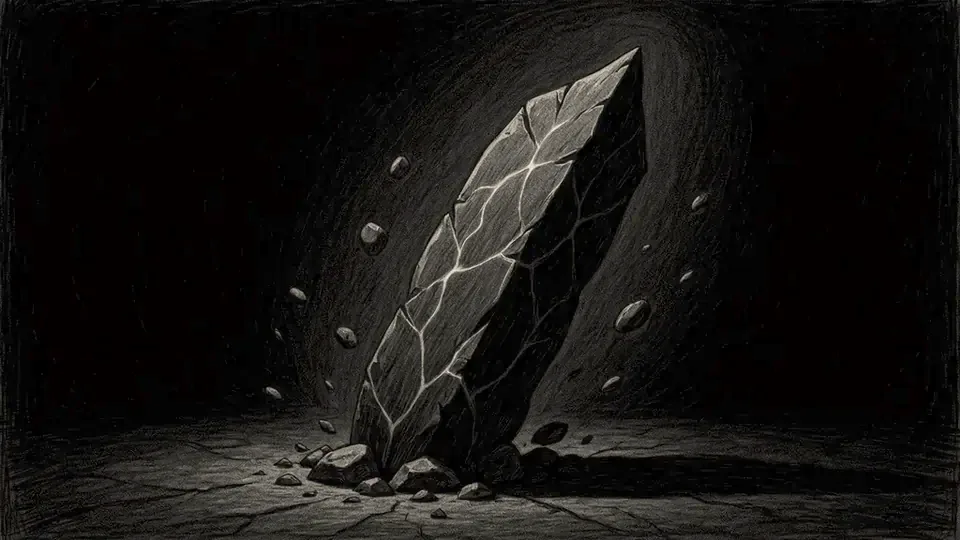
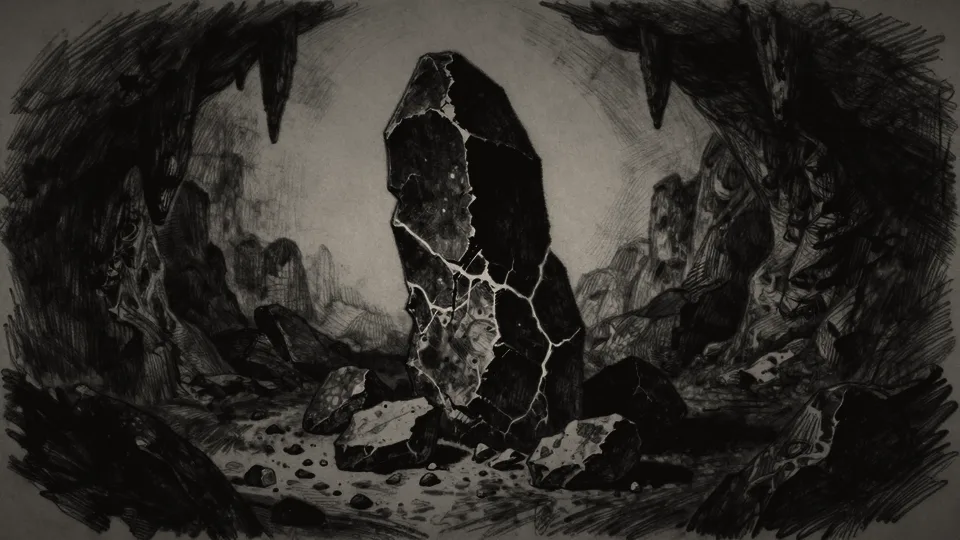
Splitter-Ereignis: neues Kohlebild mit leuchtenden Adern
Claude-Session: https://claude.ai/code/session_011EEWvRSeQeUrKHaWh94RcN

Claude-Session: https://claude.ai/code/session_011EEWvRSeQeUrKHaWh94RcN

diff --git a/index.html b/index.html
@@ -1163,7 +1163,7 @@ ${glow(180,K.y+6,boss?80:big?60:44,boss?46:big?34:26,big?"#c0352a":c,big?.3:.12)
 ${boss?`<g class="spin" style="transform-origin:180px ${K.y}px"><circle cx="180" cy="${K.y}" r="34" fill="none" stroke="#c0352a" stroke-width=".7" stroke-dasharray="2 6" opacity=".7"/><circle cx="180" cy="${K.y}" r="44" fill="none" stroke="#c0352a" stroke-width=".4" opacity=".35"/></g>`:''}
 <g class="foe-eyes blink ${k==='wing'?'hover':'breathe-e'}">${eye(180-K.gap)}${eye(180+K.gap)}${extra.map(eye).join('')}</g>
 ${particles(PART[ai],10,c,31+ai)}`)}
-const IMG={"e14":{"g":[[50,72,3,"y","fl"]],"p":"dust"},"e15":{"g":[[49,45,14,"v","pulse"],[49,45,7,"v","fl2"]],"p":"dust"},"e16":{"g":[[23,53,6,"o","fl"],[47,60,4,"o","fl2"]],"p":"embers"},"e17":{"p":"dust"},"e18":{"g":[[40.6,80,3,"y","fl"]],"p":"dust"},"l1":{"g":[[41.7,51,5,"o","fl"]],"m":[85.3,5.2,3],"st":[49.5,25],"fog":1},"l2":{"g":[[56,58,5,"o","fl"],[28,53,3,"o","fl"]],"m":[96.4,1.8,3],"st":[50,24.5],"fog":1},"l3":{"g":[[36.5,54,4.5,"o","fl"],[11.4,53,3,"o","fl"],[66.3,16,1.6,"y","fl"]],"m":[88.2,7,3],"st":[45,23],"fog":1},"l4":{"g":[[34.5,75,4.5,"o","fl"],[39.6,47,1.6,"y","fl"],[54.7,47,1.6,"y","fl"],[77.8,30,1.6,"y","fl"]],"m":[93,4.6,3],"st":[50.3,15],"fog":1},"h2":{"g":[[27.5,16,3.2,"y","fl"]],"p":"dust"},"h3":{"g":[[20,88,10,"o","fl2"],[8,45,8,"o","slow"]],"p":"embers"},"h4":{"g":[[88.9,64.5,3,"y","fl"]],"p":"snow"},"h5":{"g":[[56.5,8,4,"y","fl"]]},"r2":{"g":[[56.6,64,5,"o","fl"]],"p":"dust"},"r3":{"g":[[58.6,74,7,"o","fl2"]],"p":"embers"},"r4":{"g":[[58.6,66,5,"o","fl"]],"p":"snow"},"r5":{"g":[[50.8,51,3.5,"o","fl"]]},"x11":{"p":"dust"},"v6":{"e":[],"c":"o","g":[[11,26,4,"o","fl2"],[28,42,4,"o","fl2"],[90,30,4,"o","fl2"]]},"v1":{"e":[],"c":"y"},"v2":{"e":[],"c":"o","g":[[18,58,6,"o","fl2"],[82,58,6,"o","fl2"]]},"v3":{"e":[],"c":"o","p":"embers"},"v4":{"e":[],"c":"b","p":"snow"},"v5":{"e":[],"c":"v"},"v7":{"e":[],"c":"b"},"v8":{"e":[],"c":"o","p":"embers"},"v9":{"e":[],"c":"b","p":"snow"},"v10":{"e":[],"c":"y","g":[[51,79,3,"y","fl2"]]},"q1":{"e":[],"c":"y","g":[[46,80,6,"y","slow"]],"p":"dust"},"q2":{"e":[],"c":"o","p":"embers"},"q3":{"e":[],"c":"y","g":[[31,93,5,"o","fl2"]]},"x6":{"e":[],"c":"y","g":[[42,73,10,"o","fl2"]]},"x7":{"e":[],"c":"y","p":"dust"},"x8":{"e":[],"c":"v","g":[[58,15,4,"v","pulse"]]},"x9":{"e":[],"c":"y","p":"dust"},"x10":{"e":[],"c":"y"},"x5":{"e":[],"c":"y","g":[[58,12,10,"y","slow"]],"p":"dust"},"e10":{"e":[],"c":"y","g":[[73,50,6,"o","fl2"]]},"e12":{"e":[],"c":"y"},"e9":{"e":[],"c":"y"},"e11":{"e":[],"c":"o","g":[[70,80,9,"o","fl2"]]},"e13":{"e":[],"c":"y"},"g15":{"e":[[49.7,20.1,1.3],[58.0,22.5,1.3]],"c":"y"},"g16":{"e":[[50.0,24.2,1.0],[56.7,24.2,1.0]],"c":"y","g":[[50,4,6,"o","fl2"]]},"g17":{"e":[[45.7,25.4,1.3],[51.9,28.1,1.3]],"c":"o","p":"embers"},"g18":{"e":[],"c":"b","p":"snow"},"g19":{"e":[[38.9,31.8,1.0],[46.3,31.5,1.0]],"c":"b"},"g20":{"e":[[50.4,6.1,0.9],[56.8,6.1,0.9]],"c":"o","p":"embers"},"g21":{"e":[[55.1,25.5,1.0],[60.5,25.3,1.0]],"c":"b","p":"snow"},"g22":{"e":[],"c":"b","p":"snow"},"g23":{"e":[[47.7,2.4,0.6],[49.0,2.4,0.6]],"c":"b"},"g24":{"e":[],"c":"b"},"g25":{"e":[[53.6,13.3,1.1],[58.6,13.1,1.1]],"c":"b"},"e1":{"e":[],"c":"r"},"e2":{"e":[],"c":"b","g":[[50,68,18,"b","slow"]]},"e3":{"e":[],"c":"y"},"e4":{"e":[],"c":"y"},"e5":{"e":[],"c":"o","g":[[22,77,5,"o","fl2"]]},"e6":{"e":[],"c":"b","g":[[44,45,14,"b","slow"]]},"e7":{"e":[],"c":"y"},"e8":{"e":[],"c":"y"},"g1":{"e":[[49.8,12.5,1.4],[43.7,15.3,1.4]],"c":"y"},"g2":{"e":[[47.3,0.5,0.8],[49.3,0.8,0.8]],"c":"b"},"g3":{"e":[[51.3,18.8,0.9],[45.5,20.4,1.1]],"c":"y"},"g4":{"e":[[47.6,1.9,0.8],[49.5,1.8,0.8]],"c":"p"},"g5":{"e":[[58.4,40.5,0.8],[67.7,40.8,0.8]],"c":"y"},"g6":{"e":[[51.0,6.9,1.1],[49.2,7.1,1.1]],"c":"o","g":[[50,45,25,"o","slow"]]},"g7":{"e":[[47.8,4.9,0.6],[49.9,4.9,0.6]],"c":"b"},"g8":{"e":[[45.5,29.7,0.8],[53.9,30.0,0.8]],"c":"r"},"g9":{"e":[[44.1,9.8,1.9],[60.5,9.9,1.9],[50.5,21.4,4.8],[35.9,23.1,1.9],[65.0,30.1,4.8],[39.2,33.0,1.1],[53.0,36.4,1.9],[67.0,40.4,1.4],[60.3,46.1,2.0],[77.7,59.1,4.8],[55.7,72.8,1.4]],"c":"g"},"g10":{"e":[[45.3,47.2,1.4],[52.7,48.1,1.4]],"c":"y"},"g11":{"e":[[46.3,31.6,1.6],[56.4,33.8,1.6]],"c":"y"},"g12":{"e":[[50.0,0.1,1.2],[52.6,1.0,1.2]],"c":"o"},"b1":{"e":[[50.5,10.4,1.2],[46.7,12.2,1.4]],"c":"y"},"b2":{"e":[[52.2,7.0,1.2],[49.4,7.4,1.2]],"c":"b"},"b3":{"e":[[51.5,2.8,1.4],[48.4,3.2,1.2]],"c":"o","g":[[52,40,25,"o","fl2"]],"p":"embers"},"b4":{"e":[[52.0,3.9,1.6],[49.2,4.2,1.4]],"c":"b","p":"snow"},"b5":{"e":[[52.0,8.5,1.2],[54.2,9.3,1.2],[47.0,9.6,1.2],[48.4,11.2,1.2],[50.0,11.6,1.4],[46.3,13.2,1.2],[54.0,15.1,1.2],[51.1,15.6,1.4],[47.9,17.7,1.2],[51.8,18.0,1.4],[53.9,18.6,1.2],[49.8,21.2,1.2],[46.4,21.4,1.2],[52.3,21.6,1.4],[48.3,22.6,1.2],[53.9,22.9,1.2],[49.0,26.6,1.2],[51.9,28.2,1.2],[53.0,32.1,1.2],[49.4,32.3,1.2],[48.3,35.4,1.2],[51.1,37.1,1.2],[54.8,37.5,1.2],[43.9,38.3,1.2],[48.7,40.7,1.2],[51.1,43.6,1.2],[55.2,44.0,1.2],[45.7,46.5,1.2],[49.6,47.1,1.2],[55.3,48.7,1.2],[51.2,49.4,1.2],[43.0,49.5,1.2],[51.1,53.2,1.4],[56.7,54.2,1.4],[43.9,57.0,1.2],[52.7,59.2,1.2],[48.0,59.5,1.2],[45.9,61.7,1.2],[54.4,65.4,1.2],[44.9,66.0,1.2],[59.1,69.8,1.2],[56.1,71.7,2.2],[39.9,71.8,1.2],[45.1,72.6,1.2],[48.1,72.8,1.2],[50.2,75.0,2.5],[41.6,77.6,1.2],[44.2,78.1,1.2],[46.9,80.5,1.2],[42.7,82.1,1.2],[38.1,82.8,1.1],[52.4,82.9,1.2],[43.9,88.3,1.4],[33.7,89.8,1.2],[55.2,90.7,1.2],[37.4,91.5,1.2],[61.4,95.7,2.5],[57.6,97.2,2.5]],"c":"v"},"t1":{"e":[[53.3,1.0,1.2],[50.4,1.2,1.2]],"c":"y"},"t2":{"e":[[47.0,1.9,1.2],[49.3,2.1,1.2]],"c":"b"},"t3":{"e":[[50.3,12.6,2.0],[43.5,13.6,2.2]],"c":"o","g":[[48,45,22,"o","fl2"]],"p":"embers"},"t4":{"e":[[50.1,12.9,1.6],[48.2,13.1,1.6]],"c":"b","p":"snow"},"t5":{"e":[[50.5,4.0,0.5],[49.0,4.0,0.6]],"c":"v"},"k1":{"e":[[53.7,38.0,1.2],[63.8,38.4,1.2]],"c":"y"},"k2":{"e":[[54.8,7.8,1.4],[60.6,10.9,1.2],[48.9,11.4,1.4],[41.7,12.7,1.2],[44.4,15.9,1.2],[41.3,21.9,1.2],[46.3,22.6,1.2],[64.9,24.9,1.2],[26.5,27.2,1.2],[68.5,30.2,1.2],[76.0,32.6,1.2],[28.5,36.8,1.2],[45.5,37.7,1.4],[20.7,39.3,1.2],[68.3,42.6,1.2],[75.4,43.8,1.2],[81.6,49.0,1.2],[15.7,52.6,1.2],[48.5,55.7,1.2],[27.2,56.3,2.0],[84.3,58.4,1.2],[69.3,59.7,1.4],[44.9,67.7,1.2],[13.2,68.6,1.4],[92.5,69.4,1.2],[21.0,72.8,1.4],[75.8,74.5,1.2],[62.6,80.2,1.2],[19.7,82.8,1.4],[42.0,82.7,1.2]],"c":"g"},"k3":{"e":[[49.7,1.5,1.4],[52.2,1.5,1.4]],"c":"b"},"k4":{"e":[],"c":"p"},"k5":{"e":[[50.6,2.8,1.4],[47.9,3.5,1.4]],"c":"o","g":[[30,55,20,"o","fl2"]],"p":"embers"},"k6":{"e":[[48.2,2.8,1.4],[51.2,2.7,1.2]],"c":"o","g":[[49.5,19,8,"o","fl2"],[50,88,40,"o","fl2"]],"p":"embers"},"k7":{"e":[[43.9,36.6,1.4],[51.3,36.7,1.4]],"c":"b","p":"snow"},"k8":{"e":[[49.0,6.7,1.4],[50.7,6.6,1.4]],"c":"b","p":"snow"},"k9":{"e":[[48.9,2.1,1.2],[50.8,3.3,1.2]],"c":"p"},"k10":{"e":[[51.0,0.2,1.2]],"c":"v"},"o1":{"g":[[28.6,56,7,"o","fl"],[43,30,10,"v","pulse"],[69,8,4.5,"p","slow"]],"m":[68.9,7.8,3.3],"fog":1},"o2":{"g":[[84.6,11,6,"o","fl"],[60,80,15,"p","slow"]],"p":"dust"},"o3":{"g":[[25,80,6,"o","fl"],[81,90,6,"o","fl"],[35,64,4,"o","fl"],[66,70,4,"o","fl"],[50,46,4,"o","fl"]],"p":"dust"},"o4":{"g":[[62,80,18,"o","fl2"],[60,50,12,"o","fl2"],[15,46,4,"o","fl"],[88,30,4,"o","fl"]],"p":"embers"},"o5":{"g":[[45,45,30,"b","slow"]],"p":"snow","fog":1},"o6":{"g":[[70,22,4,"r","eye"]],"p":"dust"},"o7":{"g":[[18,12,6,"o","fl"],[79.5,12,6,"o","fl"],[49.8,56,4,"r","eye"]],"p":"dust"},"o8":{"g":[[51.4,66,9,"o","fl"]]},"o9":{"g":[[60.4,16,6,"o","fl"]],"p":"dust"},"x1":{"s":[[30.4,50.5,1.6],[29.6,55,1.1]]},"x2":{"g":[[83,47,12,"o","fl"],[40,76,10,"o","fl"]]},"x3":{"g":[[50,47,10,"v","pulse"]],"p":"dust"},"x4":{"g":[[17.6,44.5,5,"o","fl"]]},"g14":{"e":[[54.2,52,1.6],[66.3,52,1.6]],"c":"o","g":[[45,35,30,"o","fl2"]],"p":"embers"},"g13":{"e":[[59.8,37.2,1.3],[68.6,37.5,1.3]],"c":"y"}};
+const IMG={"e14":{"g":[[50,72,3,"y","fl"]],"p":"dust"},"e15":{"vn":.85,"p":"dust"},"e16":{"g":[[23,53,6,"o","fl"],[47,60,4,"o","fl2"]],"p":"embers"},"e17":{"p":"dust"},"e18":{"g":[[40.6,80,3,"y","fl"]],"p":"dust"},"l1":{"g":[[41.7,51,5,"o","fl"]],"m":[85.3,5.2,3],"st":[49.5,25],"fog":1},"l2":{"g":[[56,58,5,"o","fl"],[28,53,3,"o","fl"]],"m":[96.4,1.8,3],"st":[50,24.5],"fog":1},"l3":{"g":[[36.5,54,4.5,"o","fl"],[11.4,53,3,"o","fl"],[66.3,16,1.6,"y","fl"]],"m":[88.2,7,3],"st":[45,23],"fog":1},"l4":{"g":[[34.5,75,4.5,"o","fl"],[39.6,47,1.6,"y","fl"],[54.7,47,1.6,"y","fl"],[77.8,30,1.6,"y","fl"]],"m":[93,4.6,3],"st":[50.3,15],"fog":1},"h2":{"g":[[27.5,16,3.2,"y","fl"]],"p":"dust"},"h3":{"g":[[20,88,10,"o","fl2"],[8,45,8,"o","slow"]],"p":"embers"},"h4":{"g":[[88.9,64.5,3,"y","fl"]],"p":"snow"},"h5":{"g":[[56.5,8,4,"y","fl"]]},"r2":{"g":[[56.6,64,5,"o","fl"]],"p":"dust"},"r3":{"g":[[58.6,74,7,"o","fl2"]],"p":"embers"},"r4":{"g":[[58.6,66,5,"o","fl"]],"p":"snow"},"r5":{"g":[[50.8,51,3.5,"o","fl"]]},"x11":{"p":"dust"},"v6":{"e":[],"c":"o","g":[[11,26,4,"o","fl2"],[28,42,4,"o","fl2"],[90,30,4,"o","fl2"]]},"v1":{"e":[],"c":"y"},"v2":{"e":[],"c":"o","g":[[18,58,6,"o","fl2"],[82,58,6,"o","fl2"]]},"v3":{"e":[],"c":"o","p":"embers"},"v4":{"e":[],"c":"b","p":"snow"},"v5":{"e":[],"c":"v"},"v7":{"e":[],"c":"b"},"v8":{"e":[],"c":"o","p":"embers"},"v9":{"e":[],"c":"b","p":"snow"},"v10":{"e":[],"c":"y","g":[[51,79,3,"y","fl2"]]},"q1":{"e":[],"c":"y","g":[[46,80,6,"y","slow"]],"p":"dust"},"q2":{"e":[],"c":"o","p":"embers"},"q3":{"e":[],"c":"y","g":[[31,93,5,"o","fl2"]]},"x6":{"e":[],"c":"y","g":[[42,73,10,"o","fl2"]]},"x7":{"e":[],"c":"y","p":"dust"},"x8":{"e":[],"c":"v","g":[[58,15,4,"v","pulse"]]},"x9":{"e":[],"c":"y","p":"dust"},"x10":{"e":[],"c":"y"},"x5":{"e":[],"c":"y","g":[[58,12,10,"y","slow"]],"p":"dust"},"e10":{"e":[],"c":"y","g":[[73,50,6,"o","fl2"]]},"e12":{"e":[],"c":"y"},"e9":{"e":[],"c":"y"},"e11":{"e":[],"c":"o","g":[[70,80,9,"o","fl2"]]},"e13":{"e":[],"c":"y"},"g15":{"e":[[49.7,20.1,1.3],[58.0,22.5,1.3]],"c":"y"},"g16":{"e":[[50.0,24.2,1.0],[56.7,24.2,1.0]],"c":"y","g":[[50,4,6,"o","fl2"]]},"g17":{"e":[[45.7,25.4,1.3],[51.9,28.1,1.3]],"c":"o","p":"embers"},"g18":{"e":[],"c":"b","p":"snow"},"g19":{"e":[[38.9,31.8,1.0],[46.3,31.5,1.0]],"c":"b"},"g20":{"e":[[50.4,6.1,0.9],[56.8,6.1,0.9]],"c":"o","p":"embers"},"g21":{"e":[[55.1,25.5,1.0],[60.5,25.3,1.0]],"c":"b","p":"snow"},"g22":{"e":[],"c":"b","p":"snow"},"g23":{"e":[[47.7,2.4,0.6],[49.0,2.4,0.6]],"c":"b"},"g24":{"e":[],"c":"b"},"g25":{"e":[[53.6,13.3,1.1],[58.6,13.1,1.1]],"c":"b"},"e1":{"e":[],"c":"r"},"e2":{"e":[],"c":"b","g":[[50,68,18,"b","slow"]]},"e3":{"e":[],"c":"y"},"e4":{"e":[],"c":"y"},"e5":{"e":[],"c":"o","g":[[22,77,5,"o","fl2"]]},"e6":{"e":[],"c":"b","g":[[44,45,14,"b","slow"]]},"e7":{"e":[],"c":"y"},"e8":{"e":[],"c":"y"},"g1":{"e":[[49.8,12.5,1.4],[43.7,15.3,1.4]],"c":"y"},"g2":{"e":[[47.3,0.5,0.8],[49.3,0.8,0.8]],"c":"b"},"g3":{"e":[[51.3,18.8,0.9],[45.5,20.4,1.1]],"c":"y"},"g4":{"e":[[47.6,1.9,0.8],[49.5,1.8,0.8]],"c":"p"},"g5":{"e":[[58.4,40.5,0.8],[67.7,40.8,0.8]],"c":"y"},"g6":{"e":[[51.0,6.9,1.1],[49.2,7.1,1.1]],"c":"o","g":[[50,45,25,"o","slow"]]},"g7":{"e":[[47.8,4.9,0.6],[49.9,4.9,0.6]],"c":"b"},"g8":{"e":[[45.5,29.7,0.8],[53.9,30.0,0.8]],"c":"r"},"g9":{"e":[[44.1,9.8,1.9],[60.5,9.9,1.9],[50.5,21.4,4.8],[35.9,23.1,1.9],[65.0,30.1,4.8],[39.2,33.0,1.1],[53.0,36.4,1.9],[67.0,40.4,1.4],[60.3,46.1,2.0],[77.7,59.1,4.8],[55.7,72.8,1.4]],"c":"g"},"g10":{"e":[[45.3,47.2,1.4],[52.7,48.1,1.4]],"c":"y"},"g11":{"e":[[46.3,31.6,1.6],[56.4,33.8,1.6]],"c":"y"},"g12":{"e":[[50.0,0.1,1.2],[52.6,1.0,1.2]],"c":"o"},"b1":{"e":[[50.5,10.4,1.2],[46.7,12.2,1.4]],"c":"y"},"b2":{"e":[[52.2,7.0,1.2],[49.4,7.4,1.2]],"c":"b"},"b3":{"e":[[51.5,2.8,1.4],[48.4,3.2,1.2]],"c":"o","g":[[52,40,25,"o","fl2"]],"p":"embers"},"b4":{"e":[[52.0,3.9,1.6],[49.2,4.2,1.4]],"c":"b","p":"snow"},"b5":{"e":[[52.0,8.5,1.2],[54.2,9.3,1.2],[47.0,9.6,1.2],[48.4,11.2,1.2],[50.0,11.6,1.4],[46.3,13.2,1.2],[54.0,15.1,1.2],[51.1,15.6,1.4],[47.9,17.7,1.2],[51.8,18.0,1.4],[53.9,18.6,1.2],[49.8,21.2,1.2],[46.4,21.4,1.2],[52.3,21.6,1.4],[48.3,22.6,1.2],[53.9,22.9,1.2],[49.0,26.6,1.2],[51.9,28.2,1.2],[53.0,32.1,1.2],[49.4,32.3,1.2],[48.3,35.4,1.2],[51.1,37.1,1.2],[54.8,37.5,1.2],[43.9,38.3,1.2],[48.7,40.7,1.2],[51.1,43.6,1.2],[55.2,44.0,1.2],[45.7,46.5,1.2],[49.6,47.1,1.2],[55.3,48.7,1.2],[51.2,49.4,1.2],[43.0,49.5,1.2],[51.1,53.2,1.4],[56.7,54.2,1.4],[43.9,57.0,1.2],[52.7,59.2,1.2],[48.0,59.5,1.2],[45.9,61.7,1.2],[54.4,65.4,1.2],[44.9,66.0,1.2],[59.1,69.8,1.2],[56.1,71.7,2.2],[39.9,71.8,1.2],[45.1,72.6,1.2],[48.1,72.8,1.2],[50.2,75.0,2.5],[41.6,77.6,1.2],[44.2,78.1,1.2],[46.9,80.5,1.2],[42.7,82.1,1.2],[38.1,82.8,1.1],[52.4,82.9,1.2],[43.9,88.3,1.4],[33.7,89.8,1.2],[55.2,90.7,1.2],[37.4,91.5,1.2],[61.4,95.7,2.5],[57.6,97.2,2.5]],"c":"v"},"t1":{"e":[[53.3,1.0,1.2],[50.4,1.2,1.2]],"c":"y"},"t2":{"e":[[47.0,1.9,1.2],[49.3,2.1,1.2]],"c":"b"},"t3":{"e":[[50.3,12.6,2.0],[43.5,13.6,2.2]],"c":"o","g":[[48,45,22,"o","fl2"]],"p":"embers"},"t4":{"e":[[50.1,12.9,1.6],[48.2,13.1,1.6]],"c":"b","p":"snow"},"t5":{"e":[[50.5,4.0,0.5],[49.0,4.0,0.6]],"c":"v"},"k1":{"e":[[53.7,38.0,1.2],[63.8,38.4,1.2]],"c":"y"},"k2":{"e":[[54.8,7.8,1.4],[60.6,10.9,1.2],[48.9,11.4,1.4],[41.7,12.7,1.2],[44.4,15.9,1.2],[41.3,21.9,1.2],[46.3,22.6,1.2],[64.9,24.9,1.2],[26.5,27.2,1.2],[68.5,30.2,1.2],[76.0,32.6,1.2],[28.5,36.8,1.2],[45.5,37.7,1.4],[20.7,39.3,1.2],[68.3,42.6,1.2],[75.4,43.8,1.2],[81.6,49.0,1.2],[15.7,52.6,1.2],[48.5,55.7,1.2],[27.2,56.3,2.0],[84.3,58.4,1.2],[69.3,59.7,1.4],[44.9,67.7,1.2],[13.2,68.6,1.4],[92.5,69.4,1.2],[21.0,72.8,1.4],[75.8,74.5,1.2],[62.6,80.2,1.2],[19.7,82.8,1.4],[42.0,82.7,1.2]],"c":"g"},"k3":{"e":[[49.7,1.5,1.4],[52.2,1.5,1.4]],"c":"b"},"k4":{"e":[],"c":"p"},"k5":{"e":[[50.6,2.8,1.4],[47.9,3.5,1.4]],"c":"o","g":[[30,55,20,"o","fl2"]],"p":"embers"},"k6":{"e":[[48.2,2.8,1.4],[51.2,2.7,1.2]],"c":"o","g":[[49.5,19,8,"o","fl2"],[50,88,40,"o","fl2"]],"p":"embers"},"k7":{"e":[[43.9,36.6,1.4],[51.3,36.7,1.4]],"c":"b","p":"snow"},"k8":{"e":[[49.0,6.7,1.4],[50.7,6.6,1.4]],"c":"b","p":"snow"},"k9":{"e":[[48.9,2.1,1.2],[50.8,3.3,1.2]],"c":"p"},"k10":{"e":[[51.0,0.2,1.2]],"c":"v"},"o1":{"g":[[28.6,56,7,"o","fl"],[43,30,10,"v","pulse"],[69,8,4.5,"p","slow"]],"m":[68.9,7.8,3.3],"fog":1},"o2":{"g":[[84.6,11,6,"o","fl"],[60,80,15,"p","slow"]],"p":"dust"},"o3":{"g":[[25,80,6,"o","fl"],[81,90,6,"o","fl"],[35,64,4,"o","fl"],[66,70,4,"o","fl"],[50,46,4,"o","fl"]],"p":"dust"},"o4":{"g":[[62,80,18,"o","fl2"],[60,50,12,"o","fl2"],[15,46,4,"o","fl"],[88,30,4,"o","fl"]],"p":"embers"},"o5":{"g":[[45,45,30,"b","slow"]],"p":"snow","fog":1},"o6":{"g":[[70,22,4,"r","eye"]],"p":"dust"},"o7":{"g":[[18,12,6,"o","fl"],[79.5,12,6,"o","fl"],[49.8,56,4,"r","eye"]],"p":"dust"},"o8":{"g":[[51.4,66,9,"o","fl"]]},"o9":{"g":[[60.4,16,6,"o","fl"]],"p":"dust"},"x1":{"s":[[30.4,50.5,1.6],[29.6,55,1.1]]},"x2":{"g":[[83,47,12,"o","fl"],[40,76,10,"o","fl"]]},"x3":{"g":[[50,47,10,"v","pulse"]],"p":"dust"},"x4":{"g":[[17.6,44.5,5,"o","fl"]]},"g14":{"e":[[54.2,52,1.6],[66.3,52,1.6]],"c":"o","g":[[45,35,30,"o","fl2"]],"p":"embers"},"g13":{"e":[[59.8,37.2,1.3],[68.6,37.5,1.3]],"c":"y"}};
 const FOE={Goblin:'g1',Kobold:'g15',Skelettkrieger:'g2',Grabwächter:'g2',Abgrundritter:'g2',Ghul:'g3','Erwachter Toter':'g3',Aschenkultist:'g4',Eishexe:'k8',Riesenratte:'g13',Knochenhund:'g19',Höllenhund:'g20',Eiswolf:'g21',Salamander:'g14',Lavagolem:'g6',Frostriese:'g18',Banshee:'k4',Reifgeist:'g22',Leerenwandler:'g7',Seelenfresser:'g25',Gesichtsloser:'g24',Schatten:'g23','Rachsüchtiger Geist':'g7','Höhlenfledermaus':'g8',Feuerimp:'g17',Schleim:'g9',Gletscherwyrm:'g10',Sternenfresser:'g10',Mimic:'g11',
 'Goblinhäuptling Krag':'b1','Der Knochenkönig':'b2','Ignaroth, Herr der Glut':'b3','Hrimfang der Ewige':'b4','Das Namenlose':'b5','Brakk, der Grubenoger':'t1','Morvane, die Grabhüterin':'t2','Die Aschenbrut':'t3','Skadi, die Eiswächterin':'t4','Der Leerenhüter':'t5'};
 const BKEY={grimmzahn:'k1',mutter:'k2',aldric:'k3',weinende:'k4',ossa:'k5',schlacke:'k6',weissfell:'k7',ylva:'k8',zaehlende:'k9',kaelen:'k10'};
@@ -1171,7 +1171,7 @@ function foeKey(e){if(e.name==='Der schwarze Duellant'&&IMG.e12)return'e12';if(e
 const AREAP=['dust','dust','embers','snow','dust'];
 function artImg(k,o={}){const d=IMG[k];if(!d)return'';const src=`img/${k}.webp`;let h=`<img class="base" src="${src}" alt="">`;
 const gl=(x,y,r,c,a)=>{const m=`radial-gradient(ellipse ${r}% ${(r*1.78).toFixed(1)}% at ${x}% ${y}%,#000 30%,transparent 100%)`;return `<img class="hl c-${c} a-${a}" src="${src}" alt="" style="-webkit-mask-image:${m};mask-image:${m}">`};
-if(o.rite){h+=gl(43,30,16,'v','pulse');h+=gl(43,30,9,'v','fl2')}if(o.camp&&/^l[1-4]$/.test(k)){const c=Math.max(1,Math.min(4,o.camp));h+=`<img class="vglow" src="img/${k}v.webp" alt="" style="--vo:${[0,.5,.66,.82,1][c]};animation-duration:30s,${(4.8-c*.5).toFixed(1)}s">`}else if(o.camp){const c=o.camp,[sx,sy]=d.st||[43,26],au=(r,a,y=sy+2)=>`<div class="moon" style="mix-blend-mode:screen;animation-duration:${5-c*.5}s;background:radial-gradient(ellipse ${r}% ${(r*1.78).toFixed(1)}% at ${sx}% ${y}%,rgba(175,125,255,${a}) 0%,rgba(140,90,255,${(a*.4).toFixed(2)}) 50%,transparent 100%)"></div>`;
+if(o.rite){h+=gl(43,30,16,'v','pulse');h+=gl(43,30,9,'v','fl2')}if(d.vn)h+=`<img class="vglow" src="img/${k}v.webp" alt="" style="--vo:${d.vn};animation-duration:30s,3.4s">`;if(o.camp&&/^l[1-4]$/.test(k)){const c=Math.max(1,Math.min(4,o.camp));h+=`<img class="vglow" src="img/${k}v.webp" alt="" style="--vo:${[0,.5,.66,.82,1][c]};animation-duration:30s,${(4.8-c*.5).toFixed(1)}s">`}else if(o.camp){const c=o.camp,[sx,sy]=d.st||[43,26],au=(r,a,y=sy+2)=>`<div class="moon" style="mix-blend-mode:screen;animation-duration:${5-c*.5}s;background:radial-gradient(ellipse ${r}% ${(r*1.78).toFixed(1)}% at ${sx}% ${y}%,rgba(175,125,255,${a}) 0%,rgba(140,90,255,${(a*.4).toFixed(2)}) 50%,transparent 100%)"></div>`;
  h+=gl(sx,sy,13+c*2,'v','pulse');h+=gl(sx,sy-2,9+c,'v','fl2');if(c>=2)h+=gl(sx,sy,16+c*2,'v','pulse');
  h+=au(10+c*5,(.06+c*.07).toFixed(2));if(c>=3)h+=au(30,.18,Math.min(80,sy+26));if(c>=4){h+=au(44,.16);h+=gl(sx,sy,24,'v','fl2')}}
 for(const g of d.g||[]){h+=gl(...g);if(g[4]==='fl'){const r=g[2]*2.6;h+=`<div class="pool" style="background:radial-gradient(ellipse ${r}% ${(r*1.78).toFixed(1)}% at ${g[0]}% ${g[1]}%,rgba(255,150,60,.22),rgba(255,120,40,.08) 45%,transparent 100%)"></div>`}}

diff --git a/sw.js b/sw.js
@@ -1,5 +1,5 @@
-const V='riss-1795727808';
-const CORE=['./','index.html','manifest.webmanifest','icons/icon-192.png','icons/icon-512.png','img/b1.webp','img/b2.webp','img/b3.webp','img/b4.webp','img/b5.webp','img/e1.webp','img/e10.webp','img/e11.webp','img/e12.webp','img/e13.webp','img/e14.webp','img/e15.webp','img/e16.webp','img/e17.webp','img/e18.webp','img/e2.webp','img/e3.webp','img/e4.webp','img/e5.webp','img/e6.webp','img/e7.webp','img/e8.webp','img/e9.webp','img/g1.webp','img/g10.webp','img/g11.webp','img/g12.webp','img/g13.webp','img/g14.webp','img/g15.webp','img/g16.webp','img/g17.webp','img/g18.webp','img/g19.webp','img/g2.webp','img/g20.webp','img/g21.webp','img/g22.webp','img/g23.webp','img/g24.webp','img/g25.webp','img/g3.webp','img/g4.webp','img/g5.webp','img/g6.webp','img/g7.webp','img/g8.webp','img/g9.webp','img/h2.webp','img/h3.webp','img/h4.webp','img/h5.webp','img/k1.webp','img/k10.webp','img/k2.webp','img/k3.webp','img/k4.webp','img/k5.webp','img/k6.webp','img/k7.webp','img/k8.webp','img/k9.webp','img/l1.webp','img/l1v.webp','img/l2.webp','img/l2v.webp','img/l3.webp','img/l3v.webp','img/l4.webp','img/l4v.webp','img/o1.webp','img/o2.webp','img/o3.webp','img/o4.webp','img/o5.webp','img/o6.webp','img/o7.webp','img/o8.webp','img/o9.webp','img/q1.webp','img/q2.webp','img/q3.webp','img/r2.webp','img/r3.webp','img/r4.webp','img/r5.webp','img/t1.webp','img/t2.webp','img/t3.webp','img/t4.webp','img/t5.webp','img/v1.webp','img/v10.webp','img/v2.webp','img/v3.webp','img/v4.webp','img/v5.webp','img/v6.webp','img/v7.webp','img/v8.webp','img/v9.webp','img/x1.webp','img/x10.webp','img/x11.webp','img/x2.webp','img/x3.webp','img/x4.webp','img/x5.webp','img/x6.webp','img/x7.webp','img/x8.webp','img/x9.webp','mus/fight.mp3','mus/camp.mp3','mus/fire.mp3'];
+const V='riss-1795727853';
+const CORE=['./','index.html','manifest.webmanifest','icons/icon-192.png','icons/icon-512.png','img/b1.webp','img/b2.webp','img/b3.webp','img/b4.webp','img/b5.webp','img/e1.webp','img/e10.webp','img/e11.webp','img/e12.webp','img/e13.webp','img/e14.webp','img/e15.webp','img/e15v.webp','img/e16.webp','img/e17.webp','img/e18.webp','img/e2.webp','img/e3.webp','img/e4.webp','img/e5.webp','img/e6.webp','img/e7.webp','img/e8.webp','img/e9.webp','img/g1.webp','img/g10.webp','img/g11.webp','img/g12.webp','img/g13.webp','img/g14.webp','img/g15.webp','img/g16.webp','img/g17.webp','img/g18.webp','img/g19.webp','img/g2.webp','img/g20.webp','img/g21.webp','img/g22.webp','img/g23.webp','img/g24.webp','img/g25.webp','img/g3.webp','img/g4.webp','img/g5.webp','img/g6.webp','img/g7.webp','img/g8.webp','img/g9.webp','img/h2.webp','img/h3.webp','img/h4.webp','img/h5.webp','img/k1.webp','img/k10.webp','img/k2.webp','img/k3.webp','img/k4.webp','img/k5.webp','img/k6.webp','img/k7.webp','img/k8.webp','img/k9.webp','img/l1.webp','img/l1v.webp','img/l2.webp','img/l2v.webp','img/l3.webp','img/l3v.webp','img/l4.webp','img/l4v.webp','img/o1.webp','img/o2.webp','img/o3.webp','img/o4.webp','img/o5.webp','img/o6.webp','img/o7.webp','img/o8.webp','img/o9.webp','img/q1.webp','img/q2.webp','img/q3.webp','img/r2.webp','img/r3.webp','img/r4.webp','img/r5.webp','img/t1.webp','img/t2.webp','img/t3.webp','img/t4.webp','img/t5.webp','img/v1.webp','img/v10.webp','img/v2.webp','img/v3.webp','img/v4.webp','img/v5.webp','img/v6.webp','img/v7.webp','img/v8.webp','img/v9.webp','img/x1.webp','img/x10.webp','img/x11.webp','img/x2.webp','img/x3.webp','img/x4.webp','img/x5.webp','img/x6.webp','img/x7.webp','img/x8.webp','img/x9.webp','mus/fight.mp3','mus/camp.mp3','mus/fire.mp3'];
 self.addEventListener('install',e=>{e.waitUntil(caches.open(V).then(c=>c.addAll(CORE)).then(()=>self.skipWaiting()))});
 self.addEventListener('activate',e=>{e.waitUntil(caches.keys().then(ks=>Promise.all(ks.filter(k=>k!==V).map(k=>caches.delete(k)))).then(()=>self.clients.claim()))});
 self.addEventListener('fetch',e=>{const r=e.request;if(r.method!=='GET')return;const u=new URL(r.url);if(u.origin!==location.origin)return;
